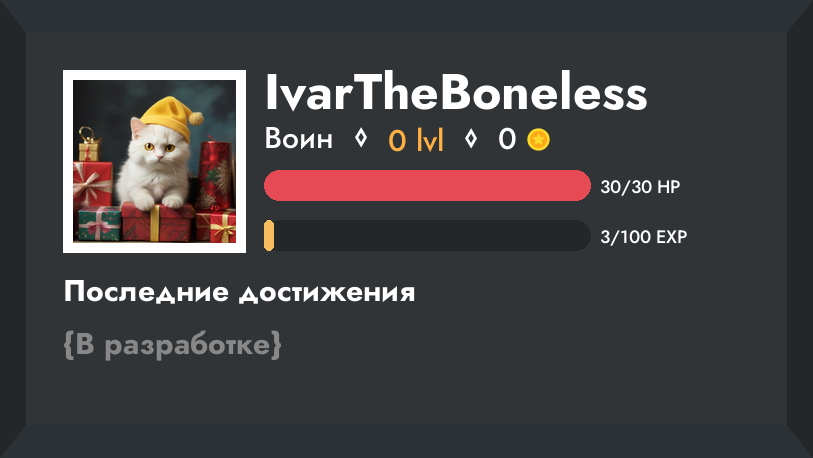
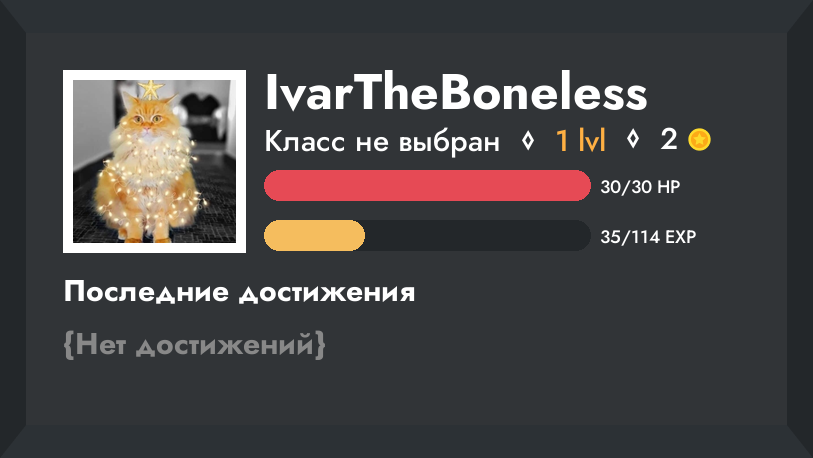
Profile cog updated

Changed region(s): [[0.0923, 0.1528, 0.8918, 0.5502], [0.0923, 0.7031, 0.3998, 0.7948], [0.738, 0.4891, 0.861, 0.5502]]

diff --git a/cogs/Profile.py b/cogs/Profile.py
@@ -71,7 +71,7 @@ async def profile_info(ctx, user_id):
         background.text((600, 230), f"{userdata['exp']}/{userdata['max_exp']} EXP", font=font_18, color="white")
 
         background.text((63, 280), f"Последние достижения", font=font_30_bold, color="white")
-        background.text((63, 330), "{В разработке}", font=font_30_bold, color="#888888")
+        background.text((63, 330), "{Нет достижений}", font=font_30_bold, color="#888888")
         user_id_for_filename = str(user_id).replace("<", "").replace(">", "").replace("@", "")
         file_path = f'images/profile_image_{user_id_for_filename}.png' 
         background.save(file_path) 

diff --git a/main.py b/main.py
@@ -24,7 +24,7 @@ db = TinyDB('./json/database.json', encoding='utf-8')
 User = Query()
 
 # Префикс бота
-client = commands.Bot(command_prefix='.', intents=discord.Intents.all())
+client = commands.Bot(command_prefix='!', intents=discord.Intents.all())
 client.remove_command('help')
 # Статусы бота
 def read_bot_status():
